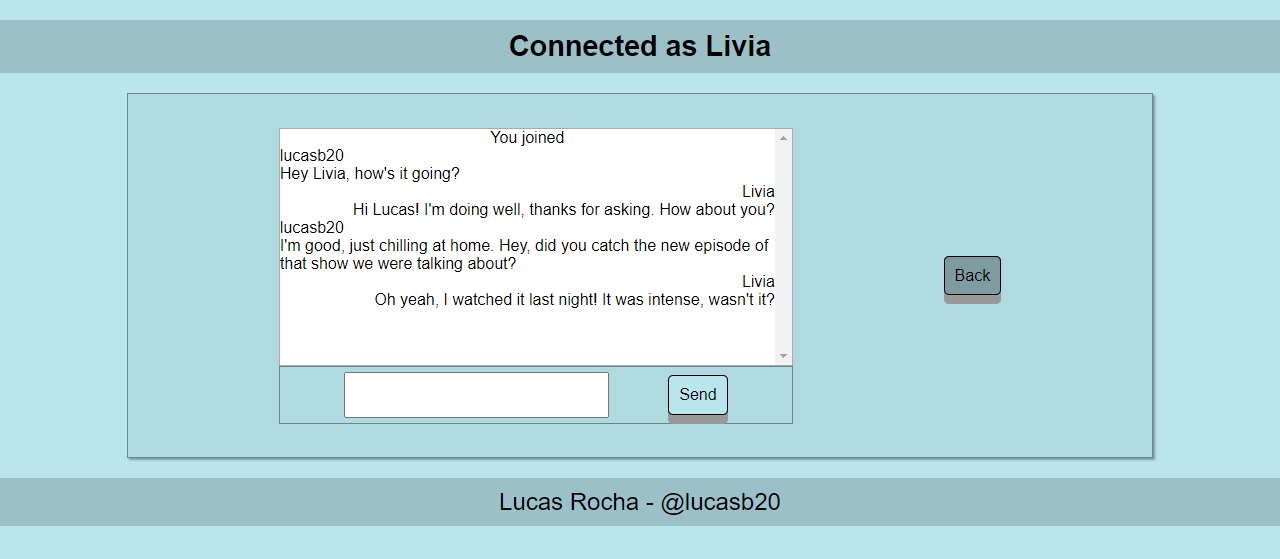
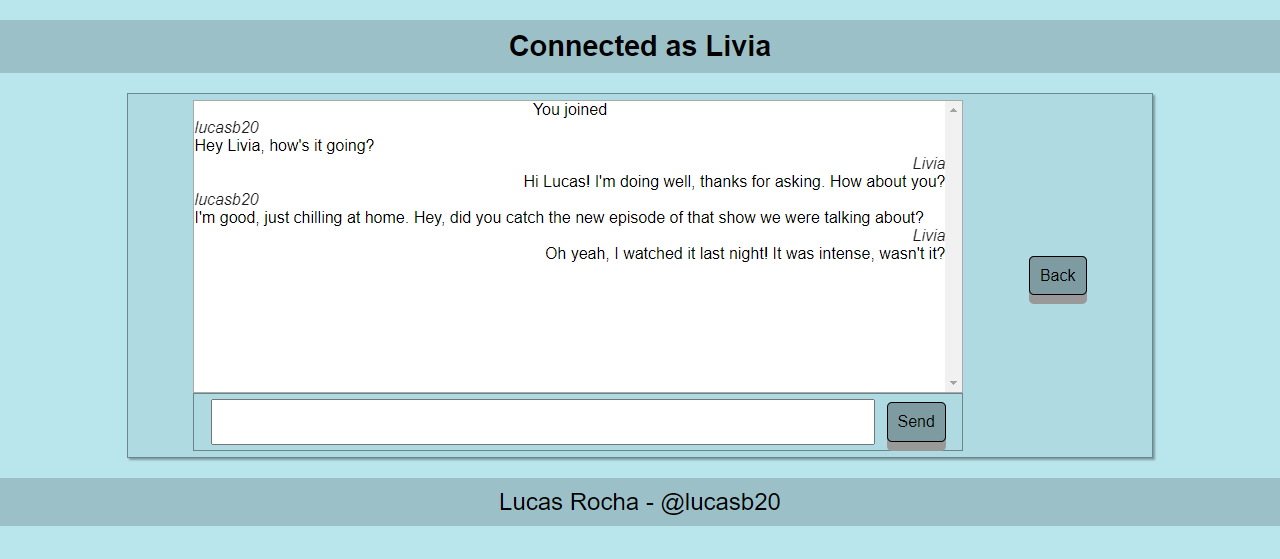
docs: screenshots updated

Changed region(s): [[0.125, 0.1521, 0.875, 0.8211]]

diff --git a/README.md b/README.md
@@ -59,4 +59,4 @@ Login Page
 ![Login Page](other/login_page.png)
 
 Chat Page
-![Chat Page](other/Screenshot3.png)
+![Chat Page](other/five_users.png)
